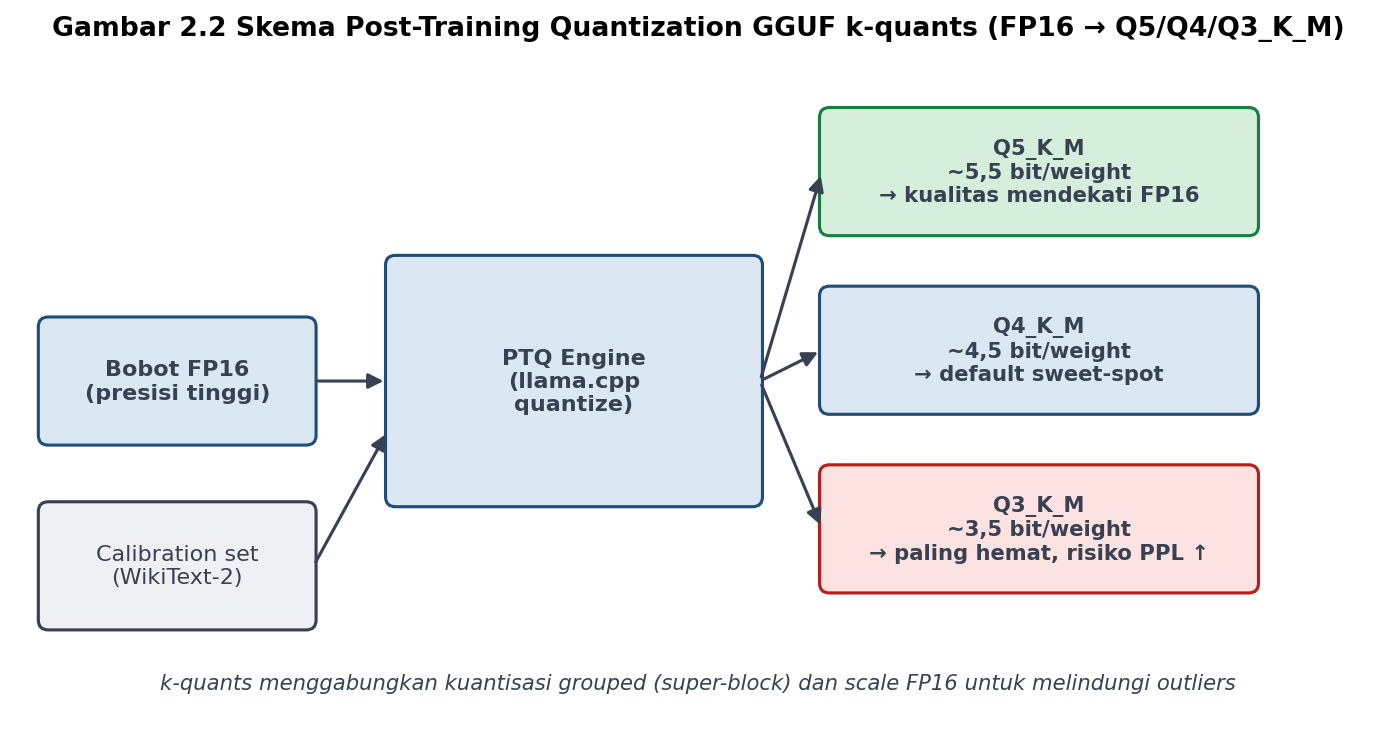
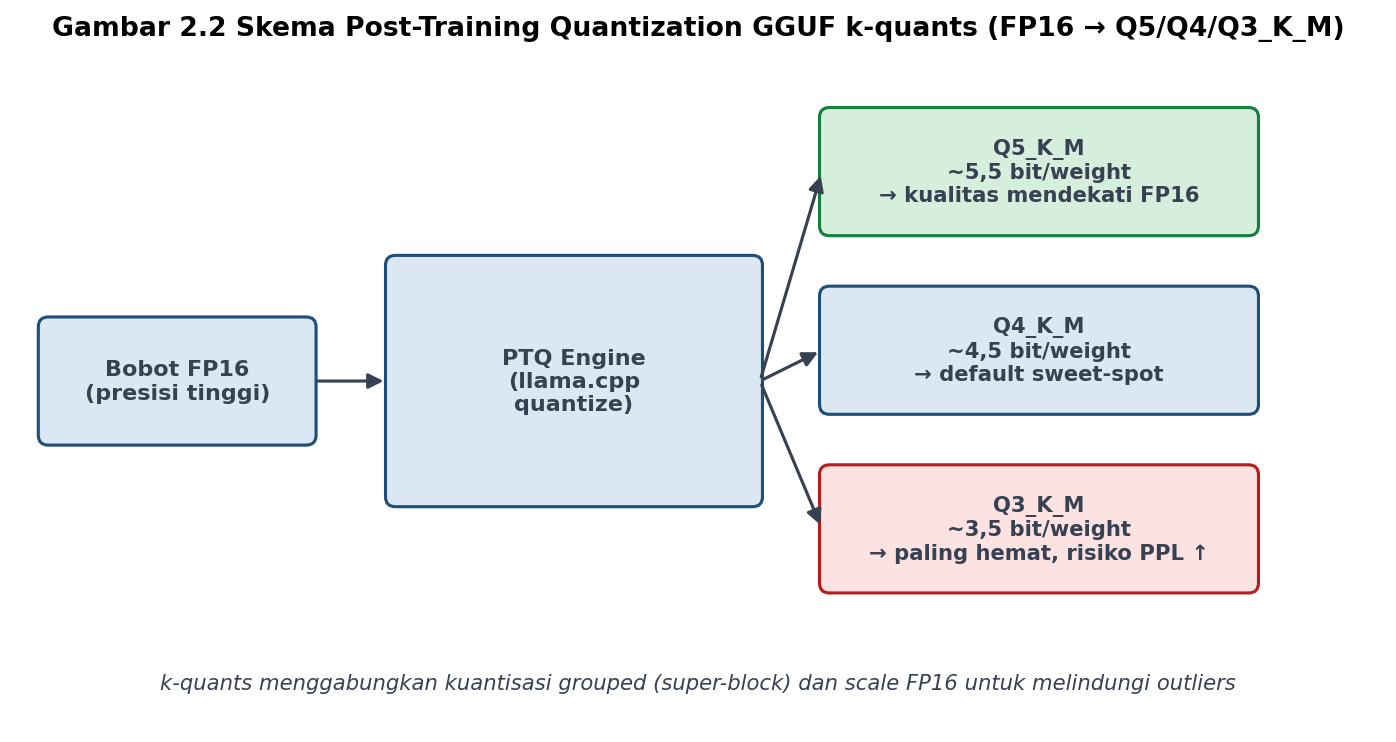
Update Gambar 2.2 dan 2.3: hapus calibration set, highlight Edge Device, kotak optimasi di bawah Edge saja
Gambar 2.2 (Skema PTQ GGUF k-quants):
- Hapus kotak 'Calibration set (WikiText-2)' dan panahnya. Default llama-quantize
  untuk k-quants melakukan pembulatan matematis langsung pada bobot FP16 dan TIDAK
  memerlukan dataset kalibrasi. Kalibrasi hanya dipakai bila pengguna secara
  eksplisit men-generate importance matrix (imatrix) yang tidak dilakukan pada
  penelitian ini. Sekarang hanya 'Bobot FP16' yang menjadi input tunggal ke
  PTQ Engine.

Gambar 2.3 (Hierarki Edge Intelligence):
- Tambahkan border hijau tebal (linewidth 3,2) + label '* Fokus Penelitian Ini'
  pada kotak Edge Device untuk mempertegas batasan ruang lingkup skripsi.
- Hapus tiga panah dari Cloud / Edge Server / Edge Device ke kotak Optimasi
  (panah dari Cloud ke optimasi Edge tidak tepat secara hierarki).
- Reposisi kotak 'Optimasi yang lazim di Edge Intelligence' agar tepat berada
  di bawah Edge Server + Edge Device saja (tidak di bawah Cloud), sebagai
  kotak floating tanpa panah dari atas.

Update PENJELASAN_GAMBAR.md BAB 2 untuk merefleksikan perubahan teknis dan
visual di kedua gambar.

diff --git a/scripts/make_figures.py b/scripts/make_figures.py
@@ -355,9 +355,8 @@ def fig_2_2_skema_ptq_kquants():
         "Gambar 2.2 Skema Post-Training Quantization GGUF k-quants (FP16 → Q5/Q4/Q3_K_M)"
     )
 
-    # FP16 weights
+    # FP16 weights — input tunggal (default llama-quantize tanpa imatrix tidak butuh kalibrasi)
     box(ax, (0.2, 2.3), (2.2, 1.0), "Bobot FP16\n(presisi tinggi)", PALETTE["lightblue"], PALETTE["blue"], 10, "bold")
-    box(ax, (0.2, 0.8), (2.2, 1.0), "Calibration set\n(WikiText-2)", PALETTE["lightgray"], PALETTE["gray"], 10)
 
     # Process box
     box(
@@ -371,7 +370,6 @@ def fig_2_2_skema_ptq_kquants():
         "bold",
     )
     arrow(ax, (2.4, 2.8), (3.0, 2.8))
-    arrow(ax, (2.4, 1.3), (3.0, 2.4))
 
     # Outputs
     variants = [
@@ -407,6 +405,27 @@ def fig_2_3_edge_intelligence():
     box(ax, (3.6, 3.6), (2.4, 1.2), "Edge Server\n(MEC, RAN)", PALETTE["lightorange"], PALETTE["orange"], 10, "bold")
     box(ax, (6.8, 3.6), (2.8, 1.2), "Edge Device\nSmartphone Android\n(Helio G99, 8 GB RAM)", PALETTE["lightgreen"], PALETTE["green"], 10, "bold")
 
+    # Highlight Edge Device sebagai fokus penelitian (border tebal + label)
+    highlight = FancyBboxPatch(
+        (6.75, 3.55),
+        2.9,
+        1.3,
+        boxstyle="round,pad=0.02,rounding_size=0.08",
+        linewidth=3.2,
+        facecolor="none",
+        edgecolor=PALETTE["green"],
+    )
+    ax.add_patch(highlight)
+    ax.text(
+        8.2,
+        4.95,
+        "★ Fokus Penelitian Ini",
+        ha="center",
+        fontsize=10,
+        fontweight="bold",
+        color=PALETTE["green"],
+    )
+
     arrow(ax, (2.8, 4.2), (3.6, 4.2))
     arrow(ax, (6.0, 4.2), (6.8, 4.2))
 
@@ -414,20 +433,17 @@ def fig_2_3_edge_intelligence():
     ax.text(4.8, 3.2, "Latency\nmenengah", ha="center", fontsize=9, color=PALETTE["orange"])
     ax.text(8.2, 3.2, "Latency\nrendah", ha="center", fontsize=9, color=PALETTE["green"])
 
+    # Kotak optimasi diposisikan tepat di bawah Edge Server + Edge Device (tidak di bawah Cloud)
     box(
         ax,
-        (0.4, 1.4),
-        (9.2, 1.4),
-        "Optimasi yang lazim di Edge Intelligence:\n• Quantization (PTQ/QAT)  • KV-cache compression  • Speculative decoding  • Batching dinamis (Zhang et al., 2024)",
+        (3.6, 1.2),
+        (6.0, 1.6),
+        "Optimasi yang lazim di Edge Intelligence:\n• Quantization (PTQ/QAT)\n• KV-cache compression\n• Speculative decoding\n• Batching dinamis (Zhang et al., 2024)",
         PALETTE["lightblue"],
         PALETTE["blue"],
         10,
         "bold",
     )
-
-    arrow(ax, (1.6, 3.6), (3.5, 2.8))
-    arrow(ax, (4.8, 3.6), (5.0, 2.8))
-    arrow(ax, (8.2, 3.6), (6.5, 2.8))
 
     save(fig, REPO / "BAB 2" / "gambar" / "2.3_arsitektur_edge_intelligence.png")
 

diff --git a/BAB 2/gambar/PENJELASAN_GAMBAR.md b/BAB 2/gambar/PENJELASAN_GAMBAR.md
@@ -33,8 +33,8 @@ Catatan ini menjelaskan tujuan, isi, dan konteks pemunculan tiap gambar pada BAB
 **Maksud / pesan utama.** Memvisualkan alur konversi bobot dari presisi FP16 ke tiga varian kuantisasi GGUF k-quants. Setelah membaca gambar ini pembaca paham bahwa skripsi ini menghasilkan **tiga artefak terkuantisasi per model** (Q5_K_M, Q4_K_M, Q3_K_M) dengan trade-off berbeda.
 
 **Komponen yang ditampilkan.**
-- Input kiri: Bobot FP16 (presisi tinggi) + Calibration set (WikiText-2).
-- PTQ Engine (kotak oranye, llama.cpp quantize) — proses utama yang menerima bobot + kalibrasi.
+- Input tunggal: Bobot FP16 (presisi tinggi). Default `llama-quantize` untuk k-quants melakukan pembulatan matematis langsung pada bobot dan TIDAK memerlukan dataset kalibrasi (kalibrasi hanya dipakai bila pengguna secara eksplisit men-generate importance matrix / `imatrix`, yang tidak dilakukan pada penelitian ini).
+- PTQ Engine (kotak biru, llama.cpp quantize) — proses utama yang menerima bobot FP16.
 - Tiga output:
   - Q5_K_M ≈ 5,5 bit/weight, kualitas mendekati FP16 (kotak hijau).
   - Q4_K_M ≈ 4,5 bit/weight, default sweet-spot (kotak oranye).
@@ -55,8 +55,8 @@ Catatan ini menjelaskan tujuan, isi, dan konteks pemunculan tiap gambar pada BAB
 **Komponen yang ditampilkan.**
 - Tier 1: Cloud Tier (GPU clusters), latensi tinggi.
 - Tier 2: Edge Server (MEC, Radio Access Network), latensi menengah.
-- Tier 3: Edge Device (Smartphone Android Helio G99, 8 GB RAM), latensi rendah—**fokus penelitian**.
-- Kotak biru di bawah: optimasi yang lazim dilakukan di Edge Intelligence (quantization, KV-cache compression, speculative decoding, batching dinamis).
+- Tier 3: Edge Device (Smartphone Android Helio G99, 8 GB RAM), latensi rendah — **★ Fokus Penelitian Ini** (kotak hijau dengan border tebal + label di atasnya untuk mempertegas batasan ruang lingkup skripsi).
+- Kotak biru di bawah: optimasi yang lazim dilakukan di Edge Intelligence (quantization, KV-cache compression, speculative decoding, batching dinamis). Diposisikan tepat di bawah Edge Server + Edge Device saja (tidak di bawah Cloud) karena daftar optimasi tersebut spesifik untuk Edge Intelligence, bukan untuk tier Cloud.
 
 **Kapan dirujuk.** Sub-bab 2.1.5 Edge Computing dan Edge Intelligence.
 
